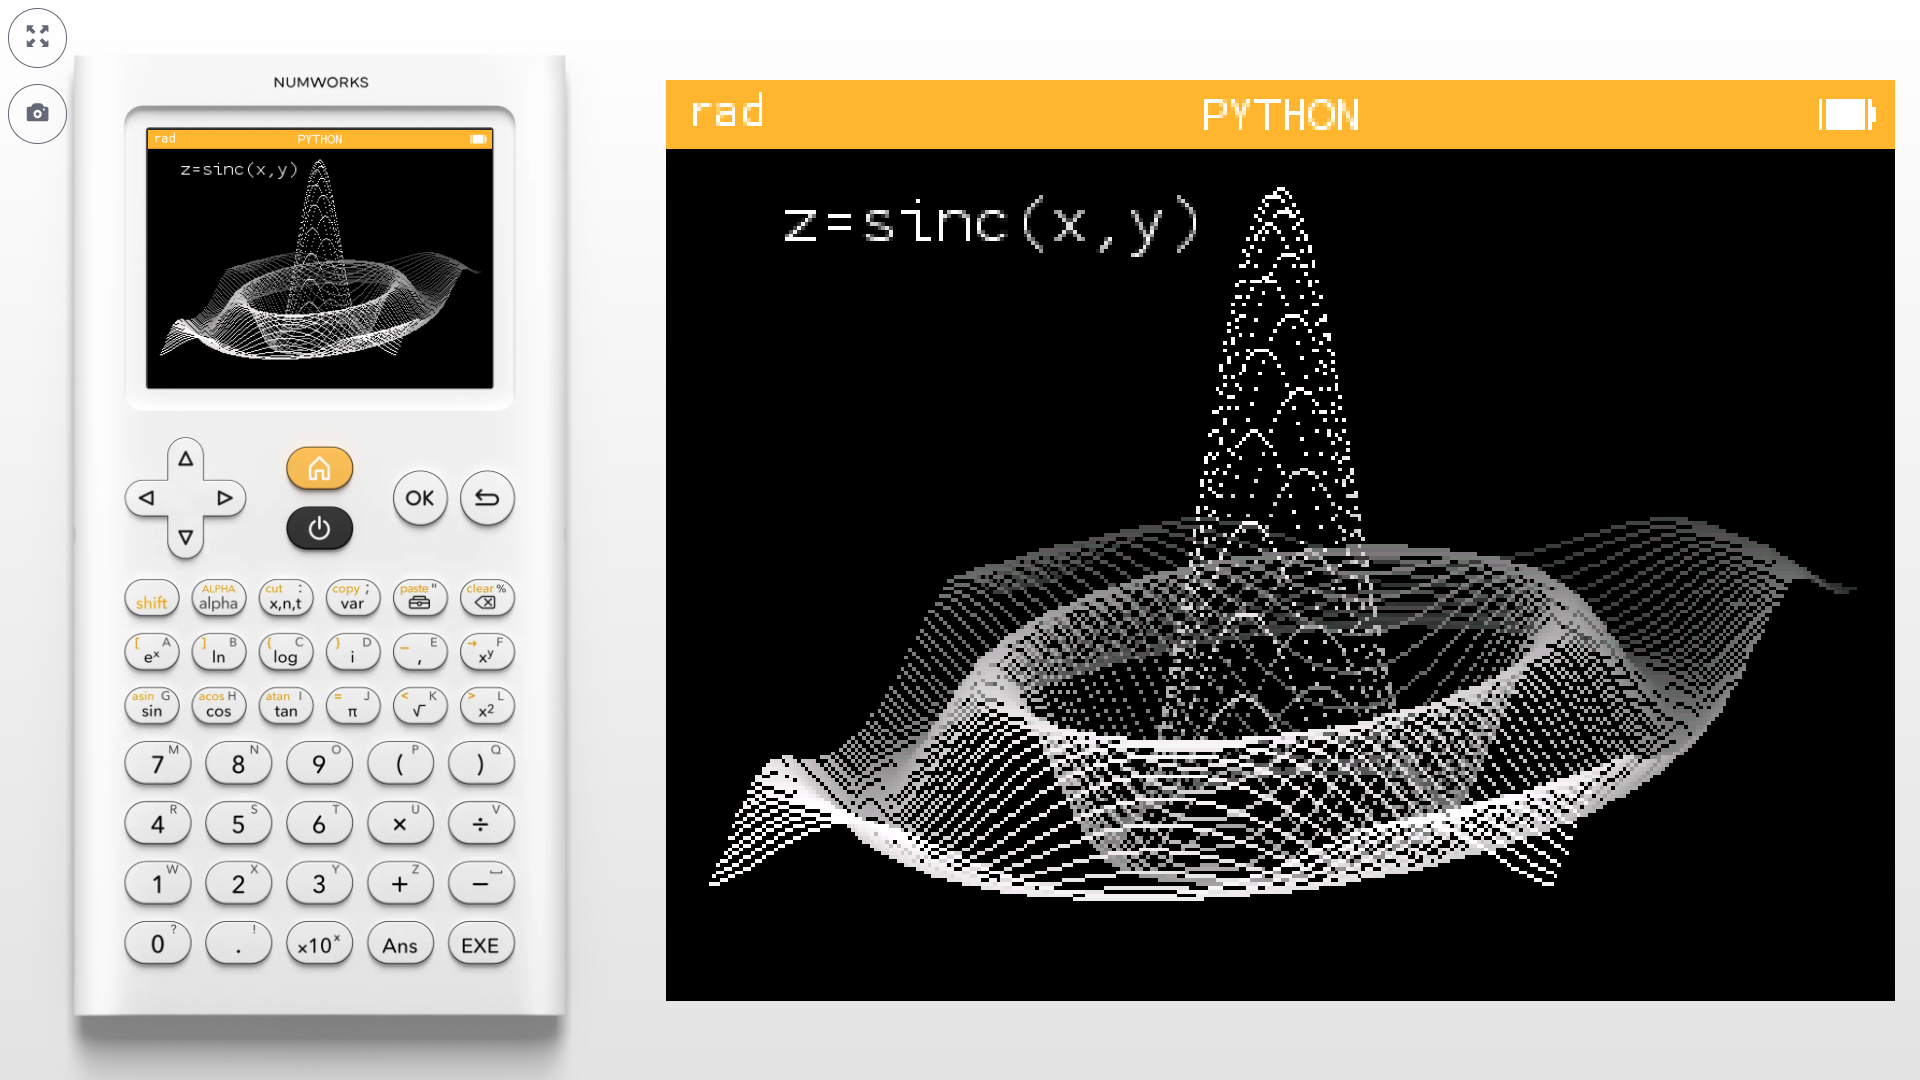
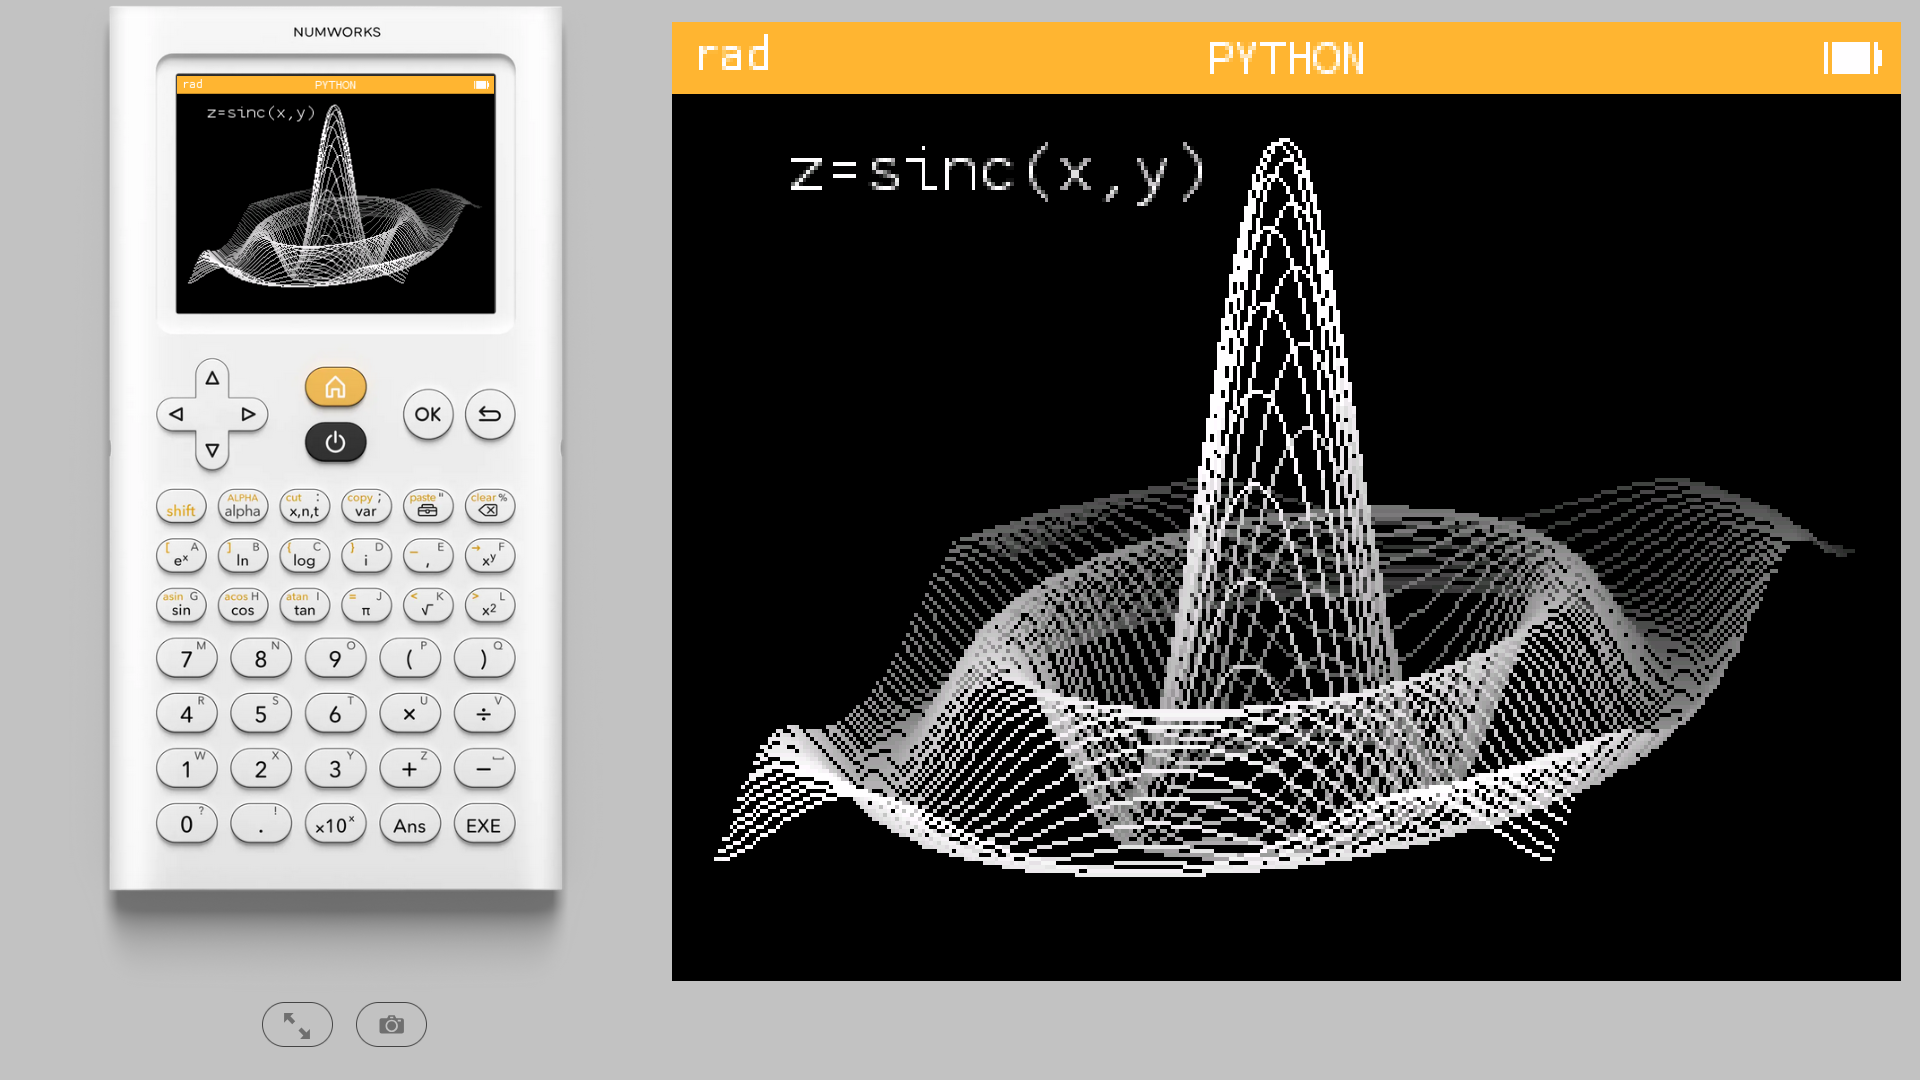
Add files via upload

diff --git a/surf3d.py b/surf3d.py
@@ -11,17 +11,29 @@ def sincos(x,y):
   z=sin(x)*cos(y)
   return z
 
+# function draws a line using kandinsky library
+# start point:(x1,y1), end point:(x2,y2), optional color
+def connect(x1,y1,x2,y2,co="black"):
+  xspan=x2-x1;yspan=y2-y1
+  steps=max(abs(xspan),abs(yspan))
+  if steps==0:
+    kandinsky.set_pixel(x1,y1,co)
+    return
+  dx=xspan/steps;dy=yspan/steps
+  x=x1;y=y1
+  for k in range(steps):
+    kandinsky.set_pixel(int(x+.5),int(y+.5),co)
+    x+=dx;y+=dy
+
 #plotting function
 #fun: function to plot must take 2 arguments, return 1
 #xrange,yrange,zrange: tuples with (min,max) value
 #txt; text which is added to the plot, optional
 def surf(fun,xrange,yrange,zrange,txt=""):    
-  Nx=220
+  Nx=110
   Ny=64
-  # Ny*xshift + Nx = 300
-  # => xshift = (300 - Nx) / Ny
-  xshift=(300-Nx)/Ny
-  yshift=xshift
+  xshift=1.25
+  yshift=1.25
   kandinsky.fill_rect(0,0,320,240,"black")
   for v in range(Ny,0,-1):
     y=yrange[0]+(yrange[1]-yrange[0])*v/(Ny-1)
@@ -30,17 +42,24 @@ def surf(fun,xrange,yrange,zrange,txt=""):
     for h in range(Nx):
       x=xrange[0]+(xrange[1]-xrange[0])*h/(Nx-1)
       funz=fun(x,y)
-      x_screen=int(h+dx+10)
+      x_screen=int(2*h+dx+10)
       z=(funz-zrange[0])/(zrange[1]-zrange[0])*150
       y_screen=int(200-(z+dy))
       c=int((1-v/Ny)*200+z/150*200+40)
       c=max(0, min(c, 255))
-      kandinsky.set_pixel(x_screen,y_screen,kandinsky.color(c,c,c))
+      if h==0:
+        x_screen_old,y_screen_old=x_screen,y_screen
+      connect(x_screen_old,y_screen_old,x_screen,y_screen,kandinsky.color(c,c,c))
+      x_screen_old,y_screen_old=x_screen,y_screen
   kandinsky.draw_string(txt,30,10,"white","black")
 
 # function call to plot surface 
 surf(sinc,(-12, 12),(-12, 12),(-0.1, 1.0),"z=sinc(x,y)")
 #surf(sincos,(-4,4),(-4,4),(-1,2),"sinxcos")
 
+
+     
+# only for running under Cpython:
+kandinsky.mainloop()
 
 
